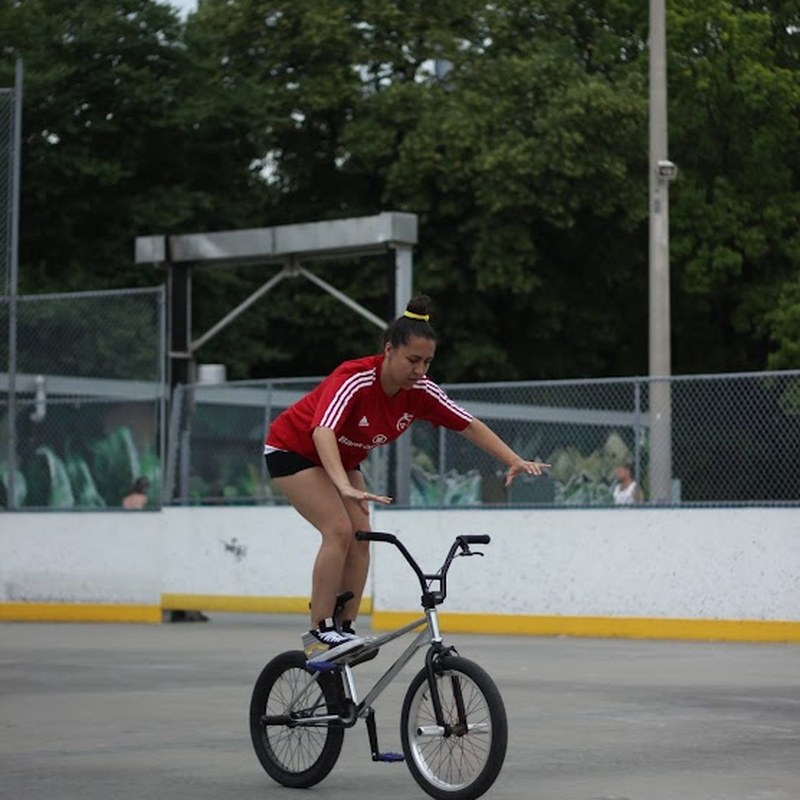
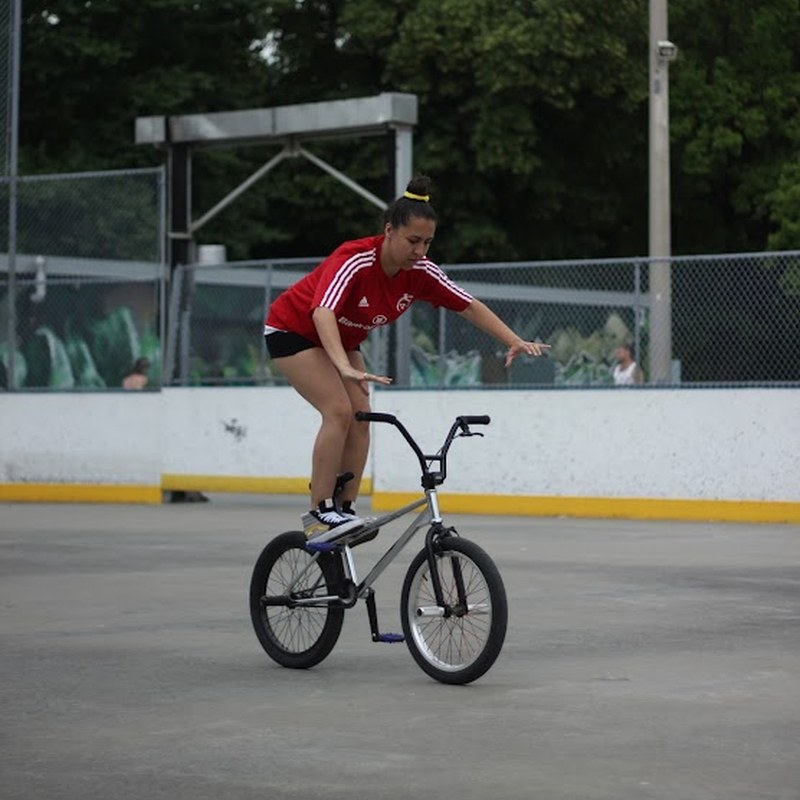
Hero CTA order, Ro before Colin, recadrage photos Jess et Remy

diff --git a/index.html b/index.html
@@ -85,8 +85,8 @@
     <h1>We ride flatland.<br /><em>And we&rsquo;re keeping it alive.</em></h1>
     <p class="lede">No ramps. No jumps. Just a bike, balance, and years of practice. The Association of Toronto Flatlanders is the crew, the scene, and the people who teach it to whoever wants to learn.</p>
     <div class="hero-btns">
-      <a class="btn" href="#shows">Book a demo or show</a>
-      <a class="btn btn-line" href="#space">Host us this winter</a>
+      <a class="btn" href="#space">Host us this winter</a>
+      <a class="btn btn-line" href="#shows">Book a demo or show</a>
     </div>
   </div>
 </header>
@@ -407,6 +407,7 @@ const riders = [
   { name: 'Bert',       bio: 'Flow style, frontyard classics. Riding since 2004.',     linkText: 'Profile',   linkHref: '#', thumb: 'assets/riders/bert.jpg', full: 'assets/riders/bert.jpg' },
   { name: 'Brandon', bio: 'Fast combos, dialed whiplash control.', linkText: 'Link', linkHref: '#', thumb: 'assets/riders/img_4031-1-924x924.jpg', full: 'assets/riders/img_4031-1-924x924.jpg' },
   { name: 'Juan', bio: 'Longtime GTA rider, classic flatland style.', thumb: 'assets/riders/juan.jpg', full: 'assets/riders/juan.jpg' },
+  { name: 'Ro', bio: 'Riding for many years, flat and street freestyle style.', linkText: 'Red Label Art', linkHref: 'https://www.redlabelart.com/' },
   { name: 'Colin', bio: 'Original lines, quiet killer at jams.', linkText: 'Insta', linkHref: '#' },
   { name: 'Jess', bio: 'Smooth turbines, backwheel consistency.', thumb: 'assets/riders/jess.jpg', full: 'assets/riders/jess.jpg' },
   { name: 'Remy', bio: 'Flatland lifer. Community first.', thumb: 'assets/riders/remy.jpg', full: 'assets/riders/remy.jpg' },
@@ -414,7 +415,6 @@ const riders = [
   { name: 'aGui Jr',   bio: 'Second generation. Rides demos and events.', thumb: 'assets/riders/agui-junior.jpg', full: 'assets/riders/agui-junior.jpg' },
   { name: 'Max Dako',  bio: 'Long time Toronto rider, back at it recently.' },
   { name: 'Khalid Abdul', bio: 'Toronto flatland crew.' },
-  { name: 'Ro',         bio: 'Riding for many years, flat and street freestyle style.', linkText: 'Red Label Art', linkHref: 'https://www.redlabelart.com/' }
 ];
 
 function initials(n){ return n.split(/\s+/).map(w => w[0]).join('').slice(0,2).toUpperCase(); }
